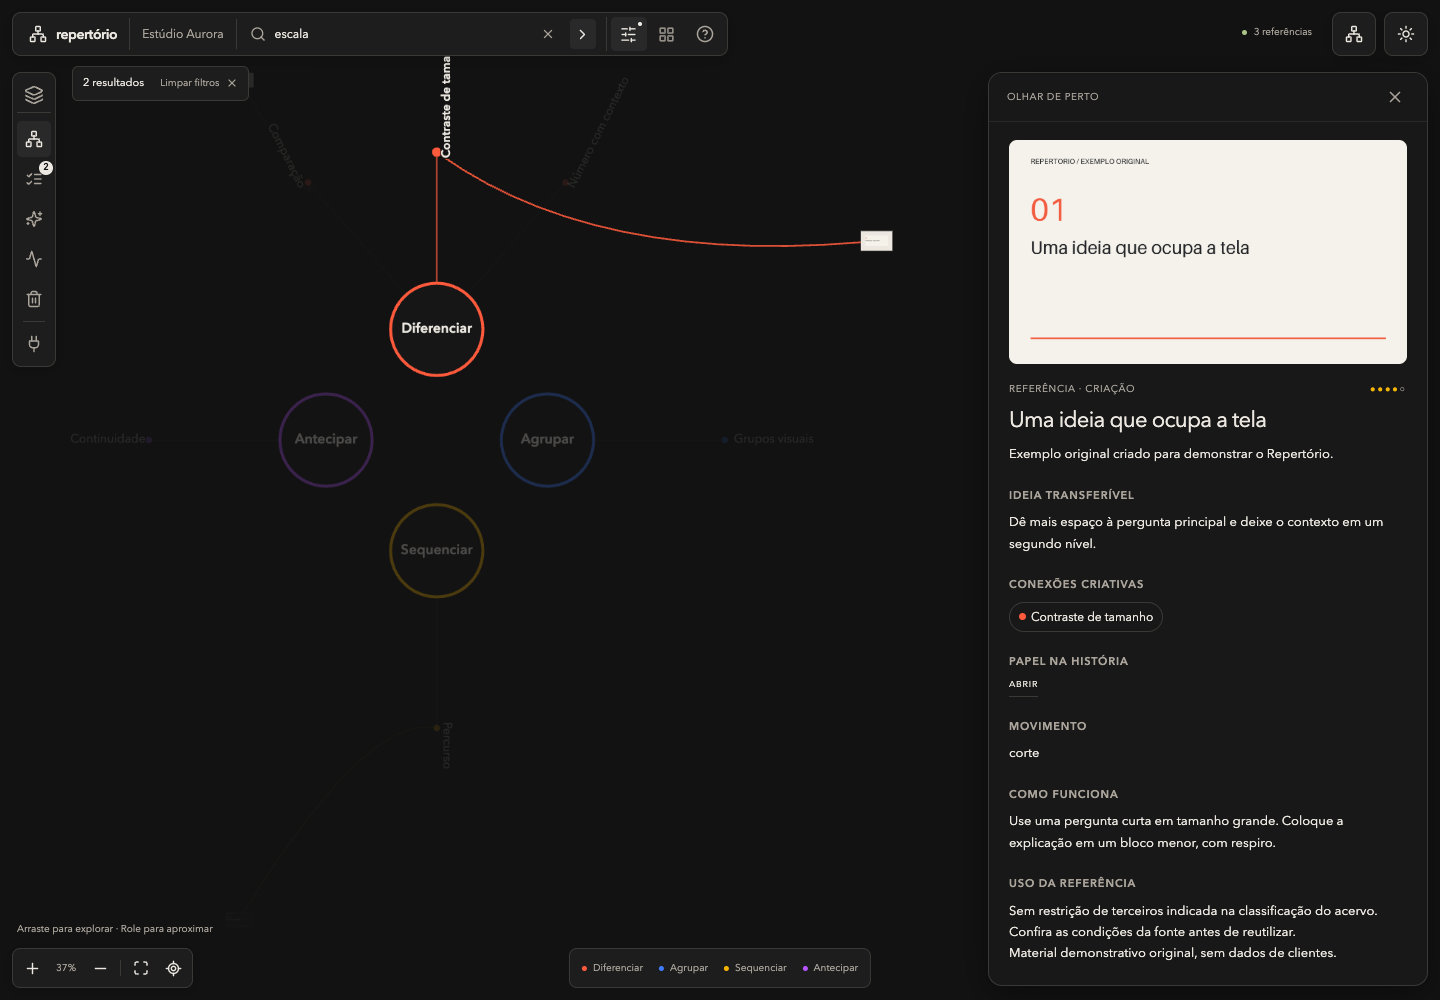
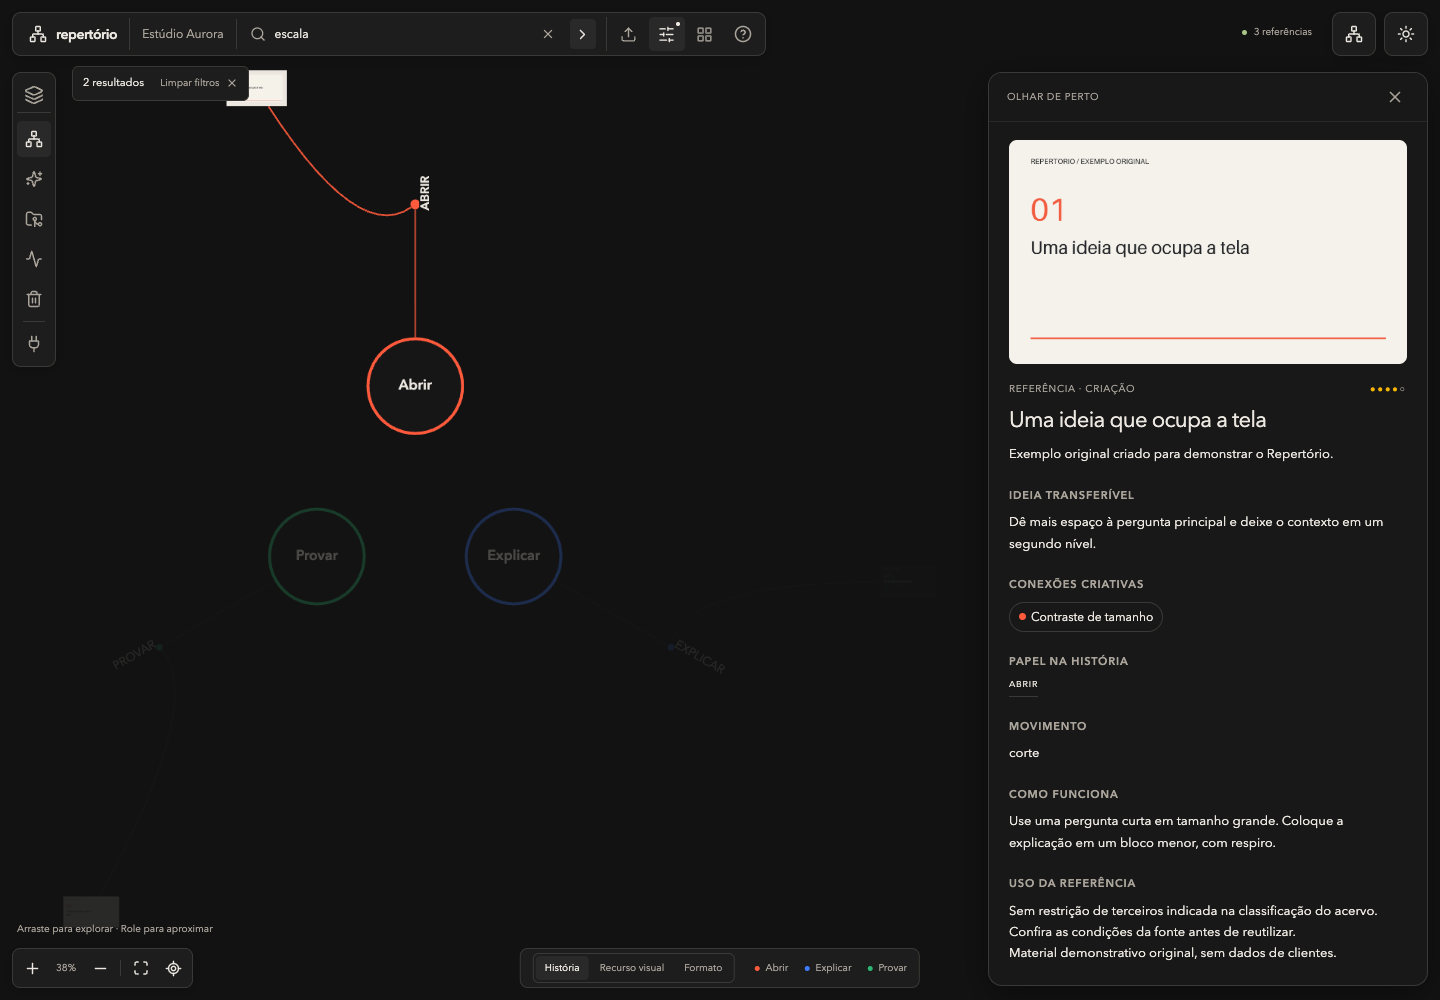
Instalar e abrir com dois cliques, guia de problemas e capturas atuais
Mac: Abrir Repertório.command prepara na primeira vez, liga o serviço e
abre o navegador quando ele responder (serve --abrir); se já estiver
ligado, só abre a página. Windows: Instalar Repertorio.cmd e Iniciar
Repertorio.cmd fazem o mesmo, com quebras de linha do Windows. Falta do uv
explicada em português nos dois sistemas. O app do Mac lê a porta gravada
no build e grava o caminho com plutil. Guia de instalação reescrito para
quem não usa terminal, com os avisos de segurança do Mac e do Windows; nova
página Quando algo não funciona, no pacote. Capturas de demonstração
refeitas e menções à antiga tela Escolhas removidas.

diff --git a/app/mac/main.swift b/app/mac/main.swift
@@ -3,8 +3,10 @@
 import Cocoa
 import WebKit
 
-let endereco = URL(string: "http://127.0.0.1:8766/")!
-let saude = URL(string: "http://127.0.0.1:8766/api/health")!
+// Porta gravada pelo build.sh (REPERTORIO_PORT na hora do build); sem ela, a padrão 8766.
+let porta = (Bundle.main.object(forInfoDictionaryKey: "RepertorioPort") as? String).flatMap(Int.init) ?? 8766
+let endereco = URL(string: "http://127.0.0.1:\(porta)/")!
+let saude = URL(string: "http://127.0.0.1:\(porta)/api/health")!
 let acervo: String = {
     let caminho = Bundle.main.object(forInfoDictionaryKey: "RepertorioProjectRoot") as? String
     let origem = caminho.map { URL(fileURLWithPath: $0) }
@@ -57,6 +59,7 @@ final class App: NSObject, NSApplicationDelegate, WKNavigationDelegate, WKUIDele
                 let processo = Process()
                 processo.executableURL = URL(fileURLWithPath: "/bin/sh")
                 processo.currentDirectoryURL = URL(fileURLWithPath: acervo)
+                processo.environment = ProcessInfo.processInfo.environment.merging(["REPERTORIO_PORT": String(porta)]) { _, nova in nova }
                 processo.arguments = ["-c", "/usr/bin/nohup /bin/sh app/run.sh serve >> \"$HOME/Library/Logs/repertorio.log\" 2>&1 &"]
                 try? processo.run()
             }

diff --git a/app/server/repertorio/cli.py b/app/server/repertorio/cli.py
@@ -71,7 +71,7 @@ def main():
     p=argparse.ArgumentParser(description='Repertório: serviço e cliente da biblioteca criativa local')
     p.add_argument('--url',help='Endereço do serviço local')
     sub=p.add_subparsers(dest='cmd',required=True)
-    sub.add_parser('serve');sub.add_parser('stop',help='encerra o serviço ligado para esta biblioteca');sub.add_parser('doctor');sub.add_parser('backup-now');sub.add_parser('init')
+    serve=sub.add_parser('serve');serve.add_argument('--abrir',action='store_true',help='abre o navegador quando o serviço responder');sub.add_parser('stop',help='encerra o serviço ligado para esta biblioteca');sub.add_parser('doctor');sub.add_parser('backup-now');sub.add_parser('init')
     demo=sub.add_parser('demo');demo.add_argument('--home',required=True);demo.add_argument('--port',type=int,default=8768);demo.add_argument('--serve',action='store_true')
     imp=sub.add_parser('import');imp.add_argument('--workspace',required=True)
     motion=sub.add_parser('import-motion',help='importa os vídeos de dados/motion para um espaço');motion.add_argument('--workspace',required=True);motion.add_argument('--folder')
@@ -113,8 +113,11 @@ def main():
         from .app import create_app,open_lock
         from .backup import before_upgrade
         # Trava antes de mexer no banco: dois serviços nunca atualizam a mesma biblioteca ao mesmo tempo.
+        import webbrowser
         try:lock=open_lock(settings)
         except RuntimeError:
+            # Já ligado: os iniciadores de dois cliques só abrem a página.
+            if args.abrir:print(f'O Repertório já está ligado. Abrindo {settings.url}');webbrowser.open(settings.url);return
             print(f'O Repertório já está ligado para esta biblioteca. Abra {settings.url} no navegador.',file=sys.stderr);sys.exit(1)
         with socket.socket() as probe:
             if sys.platform!='win32':probe.setsockopt(socket.SOL_SOCKET,socket.SO_REUSEADDR,1)
@@ -126,6 +129,16 @@ def main():
         from .starter import initialize
         initialize(settings)
         pid=pid_file(settings);pid.write_text(str(__import__('os').getpid()))
+        if args.abrir:
+            def open_when_ready():
+                import time
+                for _ in range(120):
+                    try:
+                        if httpx.get(settings.url+'/api/health',timeout=1).status_code==200:webbrowser.open(settings.url);return
+                    except httpx.HTTPError:pass
+                    time.sleep(.5)
+            __import__('threading').Thread(target=open_when_ready,daemon=True).start()
+            print(f'Repertório ligado em {settings.url}. Mantenha esta janela aberta; feche-a para desligar.',file=sys.stderr)
         try:uvicorn.run(create_app(settings,lock=lock),host='127.0.0.1',port=settings.port,timeout_graceful_shutdown=5)
         finally:pid.unlink(missing_ok=True)
         return

diff --git a/app/tests/test_onboarding.py b/app/tests/test_onboarding.py
@@ -196,15 +196,25 @@ def test_stop_ends_the_service_and_releases_the_library(tmp_path):
     root = tmp_path / 'raiz';root.mkdir()
     env = {**os.environ, 'PYTHONPATH': str(Path(__file__).resolve().parents[1] / 'server'), 'REPERTORIO_ROOT': str(root),
            'REPERTORIO_HOME': str(tmp_path / 'dados'), 'REPERTORIO_PORT': str(port), 'REPERTORIO_BACKUP_DIR': str(tmp_path / 'copias')}
+    # Navegador falso: grava o endereço que o iniciador mandaria abrir.
+    opened = tmp_path / 'aberto.txt'
+    env['BROWSER'] = f'{sys.executable} -c "import sys,pathlib;pathlib.Path(sys.argv[1]).write_text(sys.argv[2])" {opened} %s'
     cli = [sys.executable, '-m', 'repertorio.cli']
-    service = subprocess.Popen(cli + ['serve'], env=env, stdout=subprocess.DEVNULL, stderr=subprocess.PIPE, text=True)
+    service = subprocess.Popen(cli + ['serve', '--abrir'], env=env, stdout=subprocess.DEVNULL, stderr=subprocess.PIPE, text=True)
     try:
         for _ in range(80):
             try:
                 if httpx.get(f'http://127.0.0.1:{port}/api/health', timeout=.5).status_code == 200:break
             except httpx.HTTPError:time.sleep(.25)
+        for _ in range(40):
+            if opened.exists():break
+            time.sleep(.25)
+        assert opened.read_text() == f'http://127.0.0.1:{port}'
+        opened.unlink()
         again = subprocess.run(cli + ['serve'], env=env, capture_output=True, text=True, timeout=30)
         assert again.returncode == 1 and 'já está ligado' in again.stderr
+        reopen = subprocess.run(cli + ['serve', '--abrir'], env=env, capture_output=True, text=True, timeout=30)
+        assert reopen.returncode == 0 and opened.read_text() == f'http://127.0.0.1:{port}'
         stopped = subprocess.run(cli + ['stop'], env=env, capture_output=True, text=True, timeout=30)
         assert stopped.returncode == 0 and 'Serviço encerrado' in stopped.stdout, stopped.stderr
         service.wait(timeout=15)

diff --git a/ferramentas/empacotar_produto.py b/ferramentas/empacotar_produto.py
@@ -10,11 +10,11 @@ import zipfile
 
 ROOT = Path(__file__).resolve().parents[1]
 FIXED = [
-    'app/run.sh', 'app/run.ps1', 'app/setup.sh', 'app/setup.ps1', 'app/Iniciar Repertorio.cmd', 'app/Abrir Repertório.command',
+    'app/run.sh', 'app/run.ps1', 'app/setup.sh', 'app/setup.ps1', 'app/Iniciar Repertorio.cmd', 'app/Instalar Repertorio.cmd', 'app/Abrir Repertório.command',
     'app/requirements.lock', 'app/pyproject.toml',
     'app/mac/main.swift', 'app/mac/build.sh', 'app/mac/icone.png',
 ]
-CLIENT_DOCS = ['PRODUTO.md', 'INSTALACAO.md', 'DEMONSTRACAO.md', 'OPERACAO.md', 'AVISOS-DE-TERCEIROS.md']
+CLIENT_DOCS = ['PRODUTO.md', 'INSTALACAO.md', 'PROBLEMAS.md', 'DEMONSTRACAO.md', 'OPERACAO.md', 'AVISOS-DE-TERCEIROS.md']
 # Só as imagens citadas pelos documentos do pacote.
 DEMO_IMAGES = ['mapa-demo.png', 'guia-demo.png']
 # Nada pessoal, de cursos de terceiros ou de caminhos do computador de desenvolvimento pode ir no pacote.

diff --git a/docs/produto/INSTALACAO.md b/docs/produto/INSTALACAO.md
@@ -4,54 +4,64 @@ O Repertório roda no computador. Em Mac e Windows, você pode acessar pelo nave
 
 ## Antes de instalar
 
-Escolha uma pasta permanente para o produto. A primeira preparação usa internet para instalar o ambiente Python e as dependências. Instale o [uv pelo guia oficial](https://docs.astral.sh/uv/getting-started/installation/). O script prepara Python 3.12, se necessário.
+Escolha uma pasta permanente para o programa, como Documentos. Sua biblioteca fica em outra pasta, só sua (veja [Dados e cópias](#dados-e-cópias)).
 
-Se o pacote já contém `app/web/dist/index.html`, a interface está compilada. Se estiver trabalhando a partir do código-fonte, instale também [Node.js](https://nodejs.org/en/download) 22.12 ou superior e [pnpm](https://pnpm.io/installation) 11.
+A primeira preparação usa internet e precisa do **uv**, um programa gratuito que instala o Python do Repertório: siga o [guia oficial do uv](https://docs.astral.sh/uv/getting-started/installation/). Depois de instalar o uv, feche e abra de novo o Terminal (Mac) ou a janela do iniciador (Windows).
 
-## Mac, no navegador
+Se o pacote já contém `app/web/dist/index.html`, a interface está compilada. Para trabalhar a partir do código-fonte, instale também [Node.js](https://nodejs.org/en/download) 22.12 ou superior e [pnpm](https://pnpm.io/installation) 11.
 
-No terminal, dentro da pasta do produto:
+## Mac
+
+Dê dois cliques em `app/Abrir Repertório.command`. Na primeira vez, ele prepara o Repertório, o que leva alguns minutos; depois, liga o serviço e abre o navegador. Mantenha a janela do Terminal aberta durante o uso: fechar a janela desliga o serviço. Se o serviço já estiver ligado, os dois cliques só abrem a página.
+
+Se o macOS disser que não pode abrir o arquivo porque ele veio da internet, clique no arquivo com o botão direito, escolha **Abrir** e confirme. Nas versões mais novas do macOS, depois do aviso, abra **Ajustes do Sistema**, **Privacidade e Segurança**, e clique em **Abrir Mesmo Assim**. Só é preciso na primeira vez.
+
+Pelo Terminal, dentro da pasta do produto, o resultado é o mesmo:
 
 ```sh
 ./app/setup.sh
-./app/run.sh serve
+./app/run.sh serve --abrir
 ```
 
-Abra **http://127.0.0.1:8766/?view=guide**. Mantenha o terminal aberto durante o uso. Ctrl+C encerra o serviço iniciado por esse terminal.
-
-O primeiro preparo cria uma biblioteca vazia, com o espaço “Meu repertório”. Repetir a preparação preserva o acervo existente; ela não importa os materiais particulares de desenvolvimento.
+A preparação cria o espaço “Meu repertório”; repeti-la preserva o que já existe. Com a biblioteca vazia, a primeira abertura mostra o guia **Conheça o Repertório**.
 
 ## Mac, com o aplicativo opcional
 
-Depois da preparação, gere o aplicativo na própria instalação do cliente, usando as ferramentas de linha de comando do Xcode:
+Depois da preparação, gere o aplicativo na própria instalação, usando as ferramentas de linha de comando do Xcode (se faltarem, o macOS oferece instalar; ou rode `xcode-select --install`):
 
 ```sh
 ./app/mac/build.sh "$HOME/Applications/Repertório.app"
 ```
 
-Abra `Repertório.app`. Ele mostra a mesma interface em uma janela própria e mantém o serviço em execução. Você também pode usar o navegador ao mesmo tempo. O build usa a arquitetura do Mac em que é executado, com macOS 13 ou superior.
+Abra `Repertório.app`. Ele mostra a mesma interface em uma janela própria e mantém o serviço em execução. Você também pode usar o navegador ao mesmo tempo. O build usa a arquitetura do Mac em que é executado, com macOS 13 ou superior. Para usar outra porta, defina `REPERTORIO_PORT` ao gerar o aplicativo.
 
 Ao gerar ou substituir o aplicativo, o macOS pode pedir novamente acesso à pasta Documentos. O aplicativo gerado localmente não é um instalador comercial assinado e notarizado. Essa etapa de distribuição permanece em preparação.
 
-## Windows, no navegador
+## Windows
 
-Abra PowerShell na pasta do produto:
+1. Dê dois cliques em `app\Instalar Repertorio.cmd`. Ele prepara o Repertório, o que leva alguns minutos e usa internet.
+2. Para abrir, dê dois cliques em `app\Iniciar Repertorio.cmd`. Ele liga o serviço e abre o navegador. Mantenha a janela aberta durante o uso: fechar a janela desliga o serviço.
+
+Se você pular o passo 1, o `Iniciar Repertorio.cmd` faz a preparação na primeira vez. Se o Windows mostrar “O Windows protegeu o computador”, clique em **Mais informações** e em **Executar assim mesmo**. Arquivos tirados de um zip baixado também podem ser liberados assim: botão direito, **Propriedades**, marque **Desbloquear**.
+
+Pelo PowerShell, na pasta do produto:
 
 ```powershell
 powershell -NoProfile -ExecutionPolicy Bypass -File .\app\setup.ps1
-powershell -NoProfile -ExecutionPolicy Bypass -File .\app\run.ps1 serve
+powershell -NoProfile -ExecutionPolicy Bypass -File .\app\run.ps1 serve --abrir
 ```
 
-Abra **http://127.0.0.1:8766/?view=guide**. Depois do primeiro preparo, também pode usar `app\Iniciar Repertorio.cmd` para iniciar o serviço e acessar o endereço no navegador. A janela do serviço permanece aberta durante o uso; Ctrl+C encerra o processo.
+Os iniciadores e esses comandos liberam a execução de scripts somente naquele processo do PowerShell. Eles não mudam a configuração permanente da máquina. Políticas administrativas de uma organização podem prevalecer; consulte a [documentação da Microsoft](https://learn.microsoft.com/en-us/powershell/module/microsoft.powershell.core/about/about_execution_policies?view=powershell-7.5).
 
-Os comandos usam a política de execução somente naquele processo do PowerShell. Eles não mudam a configuração permanente da máquina. Políticas administrativas de uma organização podem prevalecer; consulte a [documentação da Microsoft](https://learn.microsoft.com/en-us/powershell/module/microsoft.powershell.core/about/about_execution_policies?view=powershell-7.5).
+Se algo não funcionar, veja [Quando algo não funciona](PROBLEMAS.md).
 
 ## Sua primeira referência
 
 1. Abra **Conheça o Repertório** para entender o fluxo e **Espaços** para organizar seus temas.
-2. Em **Conectar agentes**, cadastre a pasta do seu projeto e conecte um agente compatível com MCP. Os comandos aparecem no próprio app.
-3. No projeto da produção, peça ao agente que cadastre arquivos próprios ou autorizados no espaço escolhido, com uma explicação da ideia e de como aplicar o recurso.
-4. Para uma criação, peça referências, confira as que o agente indicar e continue no projeto de destino.
+2. No mapa, use **Adicionar arquivos** para enviar imagens, PDFs, apresentações ou vídeos próprios ou autorizados. Cada arquivo vira uma referência do espaço aberto.
+3. Em **Conectar agentes**, copie o comando que cadastra a pasta do seu projeto e o que conecta o seu agente: Claude Code, Codex, Cursor, Claude Desktop ou OpenCode.
+4. No projeto, peça ao agente que complete as fichas novas, com a ideia de cada referência e como aplicá-la. Ele também pode cadastrar arquivos do projeto no espaço escolhido.
+5. Para uma criação, peça referências, confira as que o agente indicar e continue no projeto de destino.
 
 O catálogo de Skills ajuda a preparar pedidos. As habilidades e contas dos serviços de IA são instaladas ou configuradas separadamente.
 

diff --git a/docs/produto/PROBLEMAS.md b/docs/produto/PROBLEMAS.md
@@ -1,0 +1,49 @@
+# Quando algo não funciona
+
+Cada item diz o que aparece na tela e o que fazer. Os comandos ficam na pasta do produto: no Mac, `./app/run.sh`; no Windows, `powershell -NoProfile -ExecutionPolicy Bypass -File .\app\run.ps1`, seguidos do nome do comando.
+
+## “O serviço do Repertório não está respondendo”
+
+O serviço local está desligado ou parou. No Mac, dê dois cliques em `app/Abrir Repertório.command` ou abra o aplicativo; no Windows, dê dois cliques em `app\Iniciar Repertorio.cmd`. A página reconecta sozinha quando o serviço volta.
+
+Se fechou a janela do Terminal ou do iniciador, o serviço também foi desligado: abra de novo pelo iniciador.
+
+## “A porta 8766 está ocupada por outro programa”
+
+Outro programa usa o mesmo endereço. Feche esse programa ou escolha outra porta: defina `REPERTORIO_PORT` (por exemplo, 8770) antes de ligar o serviço e abra o endereço com a porta nova. Se usa o aplicativo do Mac, gere o aplicativo de novo com a mesma variável.
+
+## “O Repertório já está ligado para esta biblioteca”
+
+O serviço já está funcionando, em outra janela ou pelo aplicativo do Mac. Abra http://127.0.0.1:8766 no navegador. Para desligar, use o comando `stop`; no Mac, feche antes o aplicativo, que religa o serviço enquanto estiver aberto.
+
+## “Falta o uv”
+
+A preparação precisa do uv para instalar o Python do Repertório. Instale pelo [guia oficial](https://docs.astral.sh/uv/getting-started/installation/), feche o Terminal ou a janela do iniciador e abra de novo.
+
+## O Windows bloqueou o iniciador
+
+Na tela “O Windows protegeu o computador”, clique em **Mais informações** e em **Executar assim mesmo**. Se o arquivo veio de um zip baixado, clique nele com o botão direito, **Propriedades**, marque **Desbloquear** e confirme. Os iniciadores liberam scripts só para o Repertório; regras de uma empresa podem impedir mesmo assim, e nesse caso fale com quem cuida dos computadores.
+
+## O Mac não abre o arquivo `.command`
+
+Clique no arquivo com o botão direito, escolha **Abrir** e confirme. Nas versões mais novas do macOS, abra **Ajustes do Sistema**, **Privacidade e Segurança**, e clique em **Abrir Mesmo Assim**.
+
+## O Mac pede acesso à pasta Documentos
+
+O aviso aparece quando o aplicativo do Mac é gerado de novo e o produto está em Documentos. Permita o acesso: o serviço precisa ler os arquivos do produto.
+
+## A página aparece em branco ou com “Algo deu errado”
+
+Recarregue a página (⌘R no Mac, F5 no Windows). Se continuar, use **Limpar preferências e recarregar**: isso apaga só o tema, o espaço aberto e a câmera do mapa guardados no navegador, não a biblioteca.
+
+## Um arquivo enviado não apareceu no mapa
+
+Cada arquivo é processado em segundo plano. Se o processamento falhar, o app avisa e o item aparece em **Atividade**, com o motivo e **Tentar novamente**. Arquivos corrompidos ou PDFs com senha não geram prévia: envie outra cópia. Vídeos precisam do ffmpeg instalado no computador para gerar a prévia.
+
+## O agente não encontra o Repertório
+
+Confira se o serviço está ligado e repita os passos de **Conectar agentes** no app: o cadastro da pasta do projeto e o comando ou a configuração do seu agente. Depois, abra uma nova sessão do agente.
+
+## Informações para o suporte
+
+O comando `doctor` mostra a versão, as pastas de dados e de cópias, o estado do serviço e a integridade da biblioteca. Copie o resultado ao pedir ajuda. No Mac, o registro do aplicativo fica em `~/Library/Logs/repertorio.log`.

diff --git a/README.md b/README.md
@@ -10,7 +10,7 @@ Repertório é uma biblioteca visual que você e seu agente de IA podem consulta
 
 **Funciona localmente no navegador, em Mac e Windows. No Mac, você também pode usar o aplicativo em uma janela própria.** As duas formas de acesso usam a mesma biblioteca do computador.
 
-[Conheça o produto](docs/produto/PRODUTO.md) · [Instale e comece](docs/produto/INSTALACAO.md) · [Veja a demonstração](docs/produto/DEMONSTRACAO.md)
+[Conheça o produto](docs/produto/PRODUTO.md) · [Instale e comece](docs/produto/INSTALACAO.md) · [Veja a demonstração](docs/produto/DEMONSTRACAO.md) · [Quando algo não funciona](docs/produto/PROBLEMAS.md)
 
 ## O que ele resolve
 
@@ -68,7 +68,7 @@ Abra `http://127.0.0.1:8768/?view=guide`. A demonstração tem dados próprios, 
 
 ## Instalação e operação
 
-O [guia de instalação](docs/produto/INSTALACAO.md) mostra o caminho para Mac, Windows e o aplicativo opcional do Mac. A preparação pelo código-fonte usa Python 3.12, uv e, para compilar a interface, Node.js 22.12 ou superior e pnpm 11. Pacotes de avaliação podem levar a interface já compilada.
+O [guia de instalação](docs/produto/INSTALACAO.md) mostra o caminho para Mac, Windows e o aplicativo opcional do Mac. Para instalar e abrir com dois cliques, use `app/Abrir Repertório.command` no Mac; no Windows, `app\Instalar Repertorio.cmd` e depois `app\Iniciar Repertorio.cmd`. A preparação pelo código-fonte usa Python 3.12, uv e, para compilar a interface, Node.js 22.12 ou superior e pnpm 11. Pacotes de avaliação podem levar a interface já compilada.
 
 [LEIA-ME.md](LEIA-ME.md) orienta o uso. [app/README.md](app/README.md) documenta a manutenção. [AGENTS.md](AGENTS.md) contém as instruções de desenvolvimento e curadoria.
 

diff --git a/docs/produto/PRODUTO.md b/docs/produto/PRODUTO.md
@@ -51,6 +51,6 @@ O app do Mac e o navegador são duas formas de acessar a mesma instalação loca
 
 ## Capacidade atual e decisões abertas
 
-O produto tem serviço local, interface web, aplicativo do Mac, espaços, revisão de seleções, catálogo de Skills e conexão com agentes. A inicialização limpa começa com uma biblioteca vazia e vocabulário próprio. A demonstração contém seis referências originais, dois espaços e uma seleção para revisão.
+O produto tem serviço local, interface web, aplicativo do Mac, espaços, envio de arquivos pelo app, catálogo de Skills e conexão com agentes. A inicialização limpa começa com uma biblioteca vazia e vocabulário próprio. A demonstração contém seis referências originais, dois espaços e uma demanda iniciada.
 
 Preço, modelo de licença, suporte, atualizações e eventual acesso ao código-fonte ainda são decisões comerciais do proprietário. A validação de cada sistema e as pendências de distribuição são registradas em [COMERCIALIZACAO.md](COMERCIALIZACAO.md).

diff --git a/docs/produto/DEMONSTRACAO.md b/docs/produto/DEMONSTRACAO.md
@@ -14,7 +14,7 @@ No Windows:
 powershell -NoProfile -ExecutionPolicy Bypass -File .\app\run.ps1 demo --home app\.demo --serve
 ```
 
-Abra **http://127.0.0.1:8768/?view=guide**. O guia identifica a demonstração. Há dois espaços fictícios, seis referências originais e uma seleção com três itens, sendo um já aprovado. O modo usa outra pasta e outra porta, preserva o acervo real e não executa backups automáticos ou processamento de novos materiais.
+Abra **http://127.0.0.1:8768/?view=guide**. O guia identifica a demonstração. Há dois espaços fictícios, seis referências originais e um projeto com uma demanda iniciada, como se um agente já estivesse trabalhando. O modo usa outra pasta e outra porta, preserva o acervo real e não executa backups automáticos ou processamento de novos materiais.
 
 Repetir o comando reabre a mesma demonstração. Para começar outra do zero, informe uma pasta nova. A preparação recusa a pasta da biblioteca real e diretórios existentes que não sejam demonstrações reconhecidas.
 

diff --git a/docs/produto/COMERCIALIZACAO.md b/docs/produto/COMERCIALIZACAO.md
@@ -39,7 +39,7 @@ Forma de contratação, preço, suporte, atualizações e acesso ao código-font
 
 - README orientado ao usuário, definição do produto e respostas às dúvidas básicas.
 - Guia **Conheça o Repertório** dentro do aplicativo, com um exemplo de pedido, explicação do fluxo e ações reais para explorar e conectar um agente.
-- Demonstração isolada com seis referências originais, dois espaços fictícios e uma seleção para revisão.
+- Demonstração isolada com seis referências originais, dois espaços fictícios e uma demanda iniciada.
 - Instalação local por scripts de Mac e Windows, com inicialização limpa e preservação de bibliotecas existentes.
 - Empacotador que seleciona somente os arquivos do software e da documentação de produto.
 
